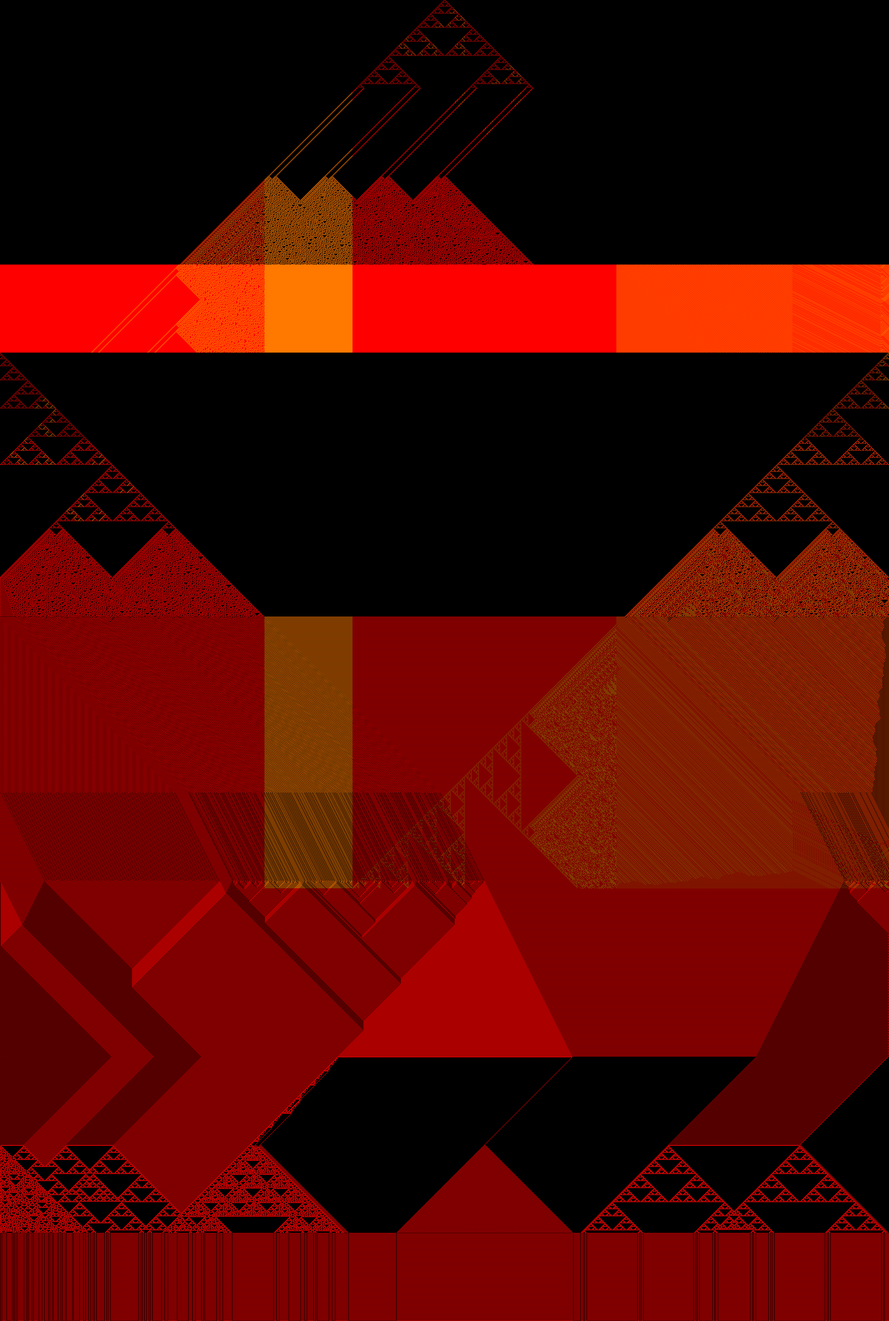
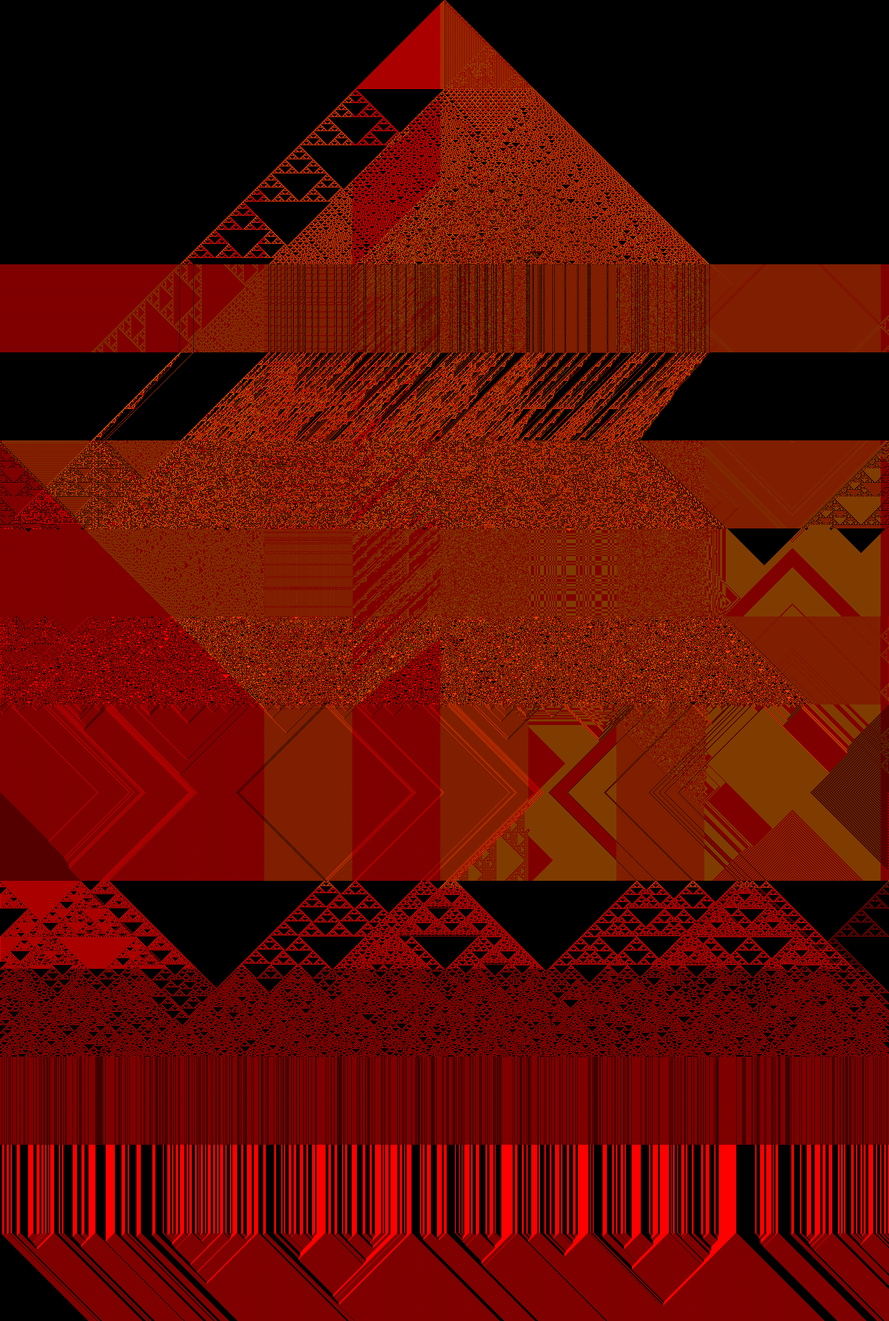
Updated profile.

diff --git a/README.md b/README.md
@@ -1,17 +1,17 @@
 ![photo](./output.png) 
- * rule: 26
+ * rule: 62
+* rule: 126
+* rule: 90
+* rule: 1
 * rule: 106
-* rule: 30
-* rule: 255
+* rule: 105
+* rule: 178
+* rule: 150
+* rule: 99
+* rule: 57
 * rule: 90
 * rule: 22
-* rule: 30
-* rule: 11
-* rule: 11
-* rule: 3
-* rule: 57
-* rule: 57
-* rule: 106
-* rule: 122
 * rule: 1
-* rule: 11
+* rule: 232
+* rule: 184
+* rule: 18
